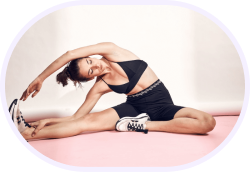
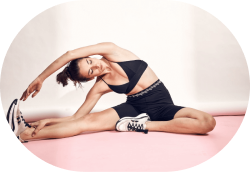
1. fixed work-out-img oorder issue 2. working on hamburger menu

Changed region(s): [[0.0, 0.0291, 1.0, 1.0]]

diff --git a/css/main.css b/css/main.css
@@ -383,6 +383,8 @@ header {
 .workout-img {
   /* position: absolute; */
   width: 250px;
+  border: solid 10px var(--bg-color);
+  border-radius: 200px;
 }
 
 .workout-img-1 {
